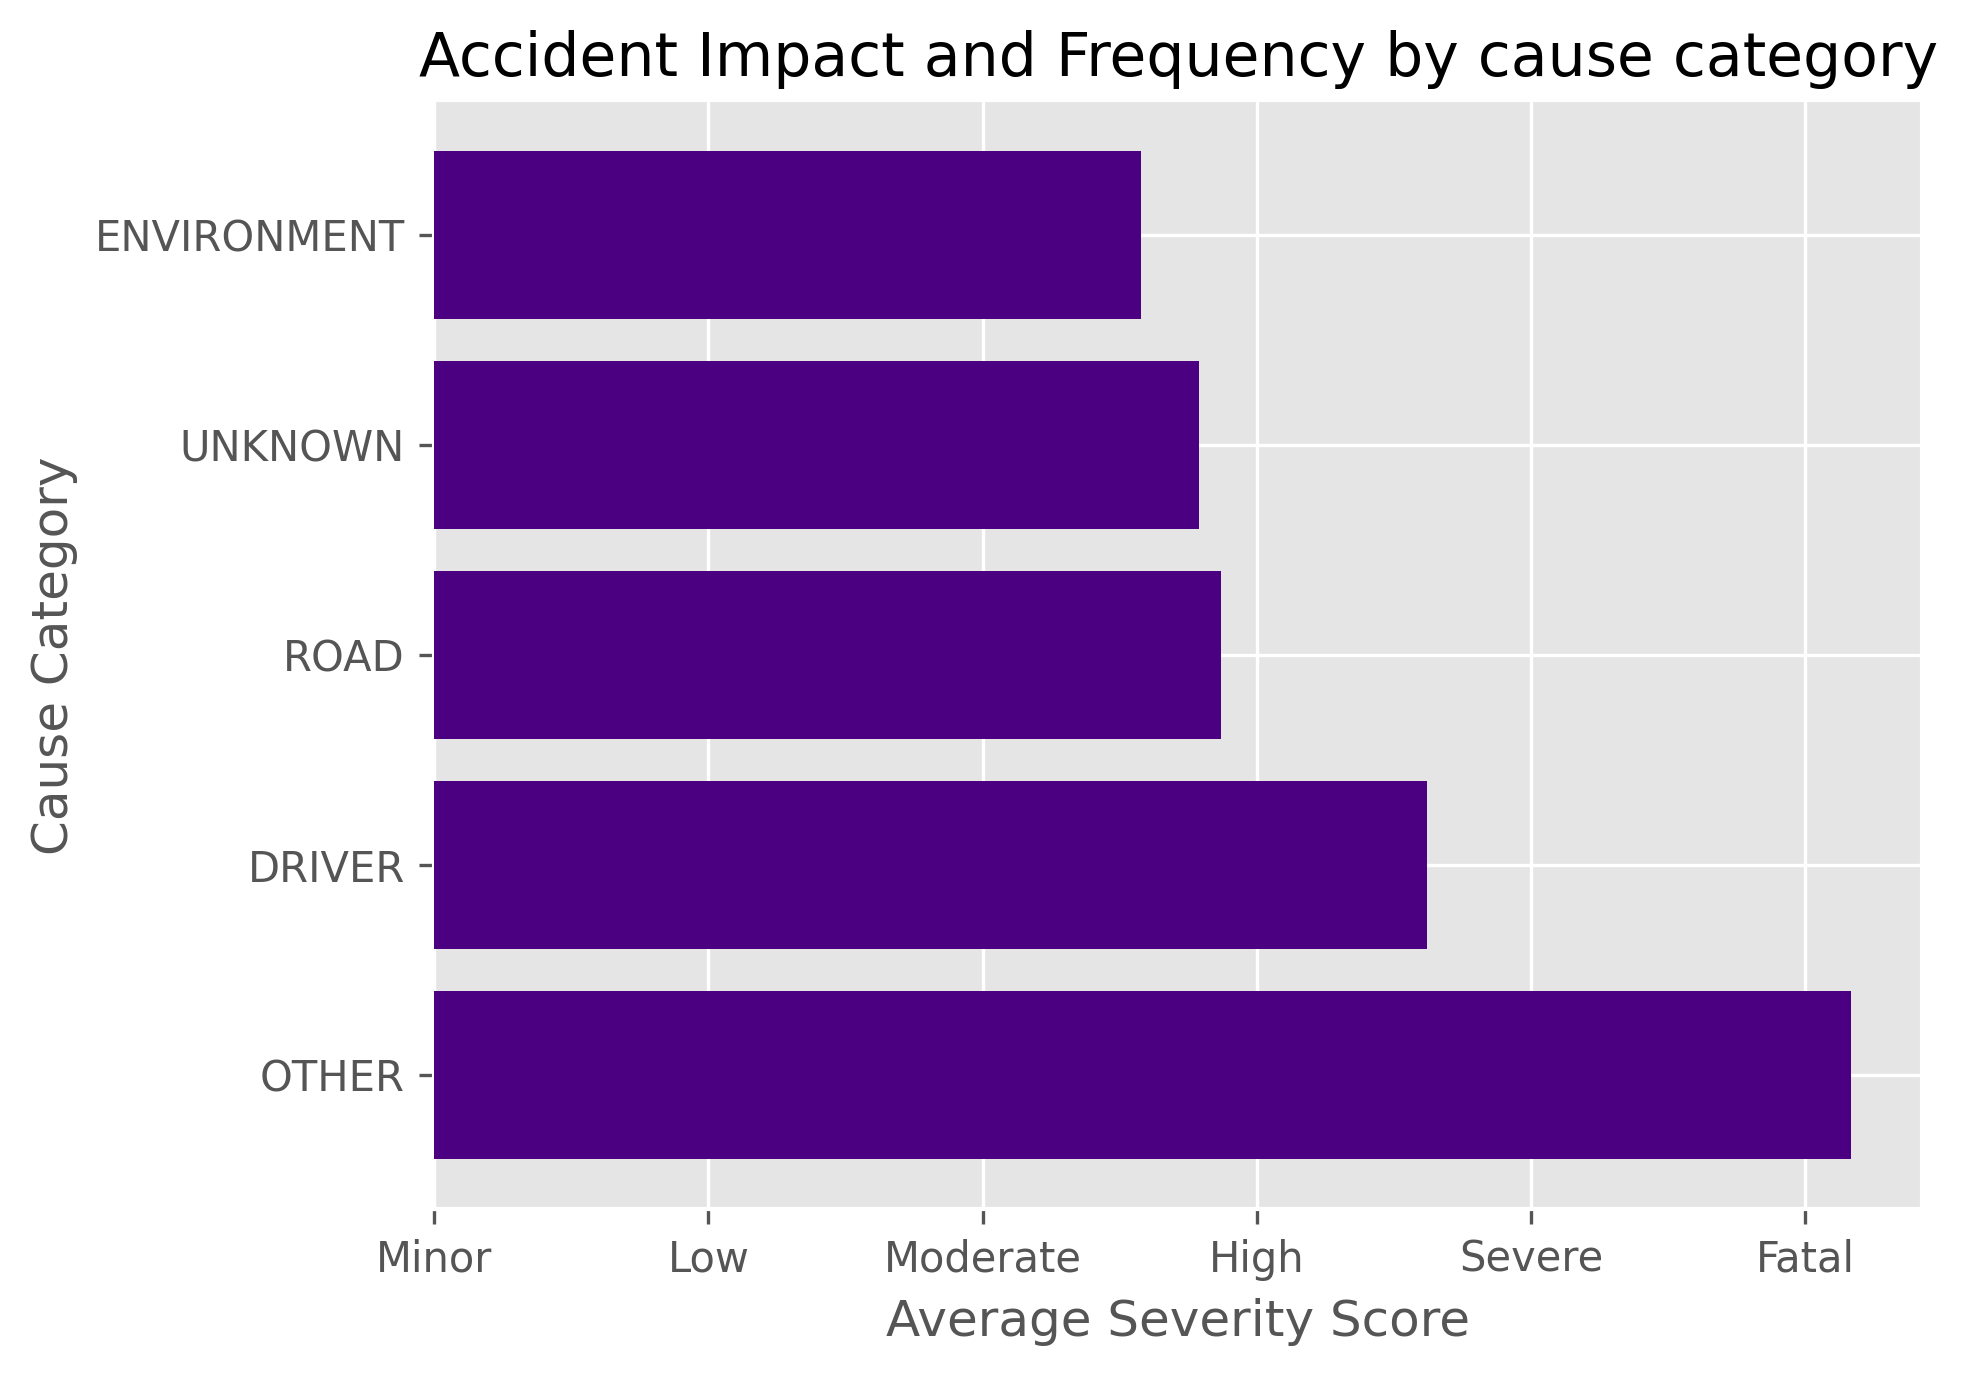
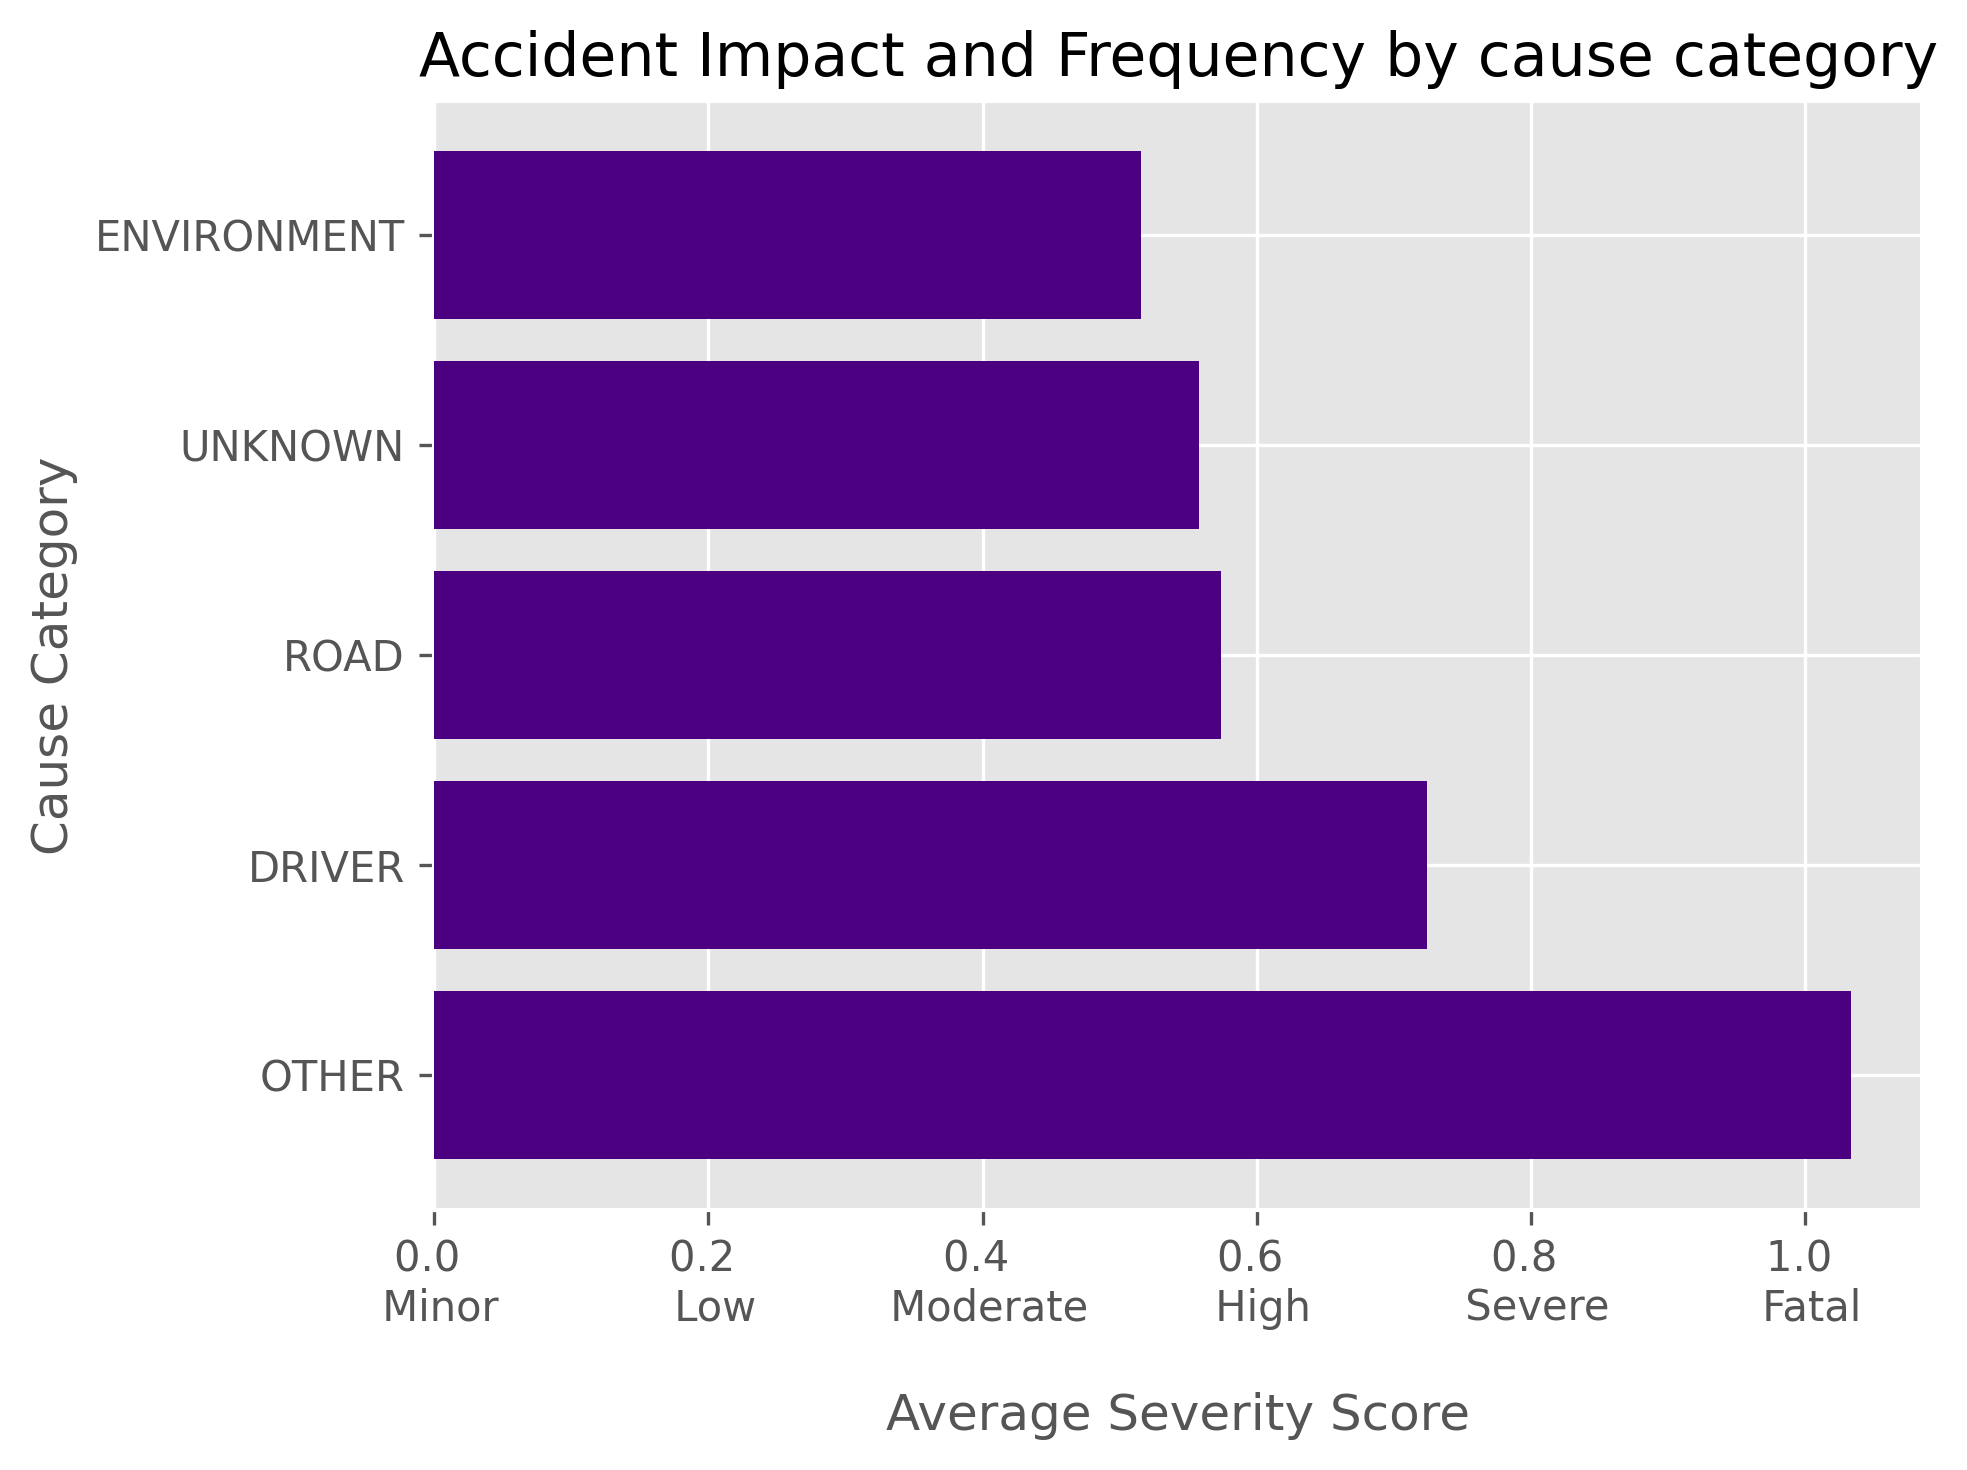
Completed Matplotlib visuals

diff --git a/scripts/visualization.py b/scripts/visualization.py
@@ -1,4 +1,5 @@
 #importing necessary libraries
+
 import matplotlib.pyplot as plt
 from sqlalchemy import create_engine
 import pandas as pd
@@ -47,15 +48,106 @@ def visualization_cause_severity():
     with plt.style.context('ggplot'):
         #going to use horizontal bar plot using 
         fig, ax = plt.subplots()
-
         ax.barh(cause_severity['cause_category'], cause_severity['avg_severity_score'], zorder=3, color='indigo')
         ax.set_xticks([0.0, 0.2, 0.4, 0.6, 0.8, 1.0])
-        ax.set_xticklabels(['Minor', 'Low', 'Moderate', 'High', 'Severe', 'Fatal'])
-        ax.set(xlabel='Average Severity Score', ylabel='Cause Category', title='Accident Impact and Frequency by cause category')
+        ax.set_xticklabels(['0.0 \n Minor', '0.2 \n Low', '0.4 \n Moderate', '0.6 \n High', '0.8 \n Severe', '1.0 \n Fatal'])
+        ax.set(ylabel='Cause Category', title='Accident Impact and Frequency by cause category')
+        ax.set_xlabel('Average Severity Score', labelpad=15)
         plt.savefig('C:\\Users\\DELL\\Desktop\\Luap\\Data Engineering\\ThirdProject\\scripts\\views_py\\cause_severity.png', dpi=300, bbox_inches='tight')
 
-visualization_cause_severity()
+#visualization_cause_severity()
+ 
+def visualization_total_injury_by_day():
+    query = 'SELECT * FROM vw_total_injury_by_day;'
+    total_injury_by_day = pd.read_sql(query, engine)
+    order = ['Daytime', 'Afternoon', 'Evening', 'Unknown']
+    total_injury_by_day = (
+    total_injury_by_day
+    .set_index('time_of_day')
+    .reindex(order)
+    .reset_index()
+    .fillna(0))
+    fig, ax = plt.subplots()
+    ax.bar(total_injury_by_day['time_of_day'], total_injury_by_day['accident_with_injuries'], zorder=3 , color='deepskyblue')
+    ax2=ax.twinx()
+    ax2.plot(total_injury_by_day['time_of_day'], total_injury_by_day['severity_score_average'], marker='o', linestyle='-', color='red', zorder=2)
+    ax2.set_ylabel('Average Severity Score', color='red', labelpad=15)
+    ax.set_xticklabels(['Morning\n6AM-12PM', 'Afternoon\n12PM-6PM', 'Evening\n6PM-12AM', 'Unknown\n12AM-12AM'])
+    ax.set_ylabel('Total Accidents with Injuries', color='deepskyblue', labelpad=15)
+    ax.set(xlabel = 'Time of Day', title='Total Accidents with Injuries and Average Severity Score by Time of Day')
+    ax.grid(True, which='major', linestyle='--', linewidth=0.6)
+    plt.savefig('C:\\Users\\DELL\\Desktop\\Luap\\Data Engineering\\ThirdProject\\scripts\\views_py\\total_injury_by_day.png', dpi=300, bbox_inches='tight')
+
+
+#creating visualization for damage_level_distribution
+def visualization_damage_level_distribution():
+    query = 'SELECT * FROM vw_damage_level_distribution;'
+    damage_level_distribution = pd.read_sql(query, engine)
+    with plt.style.context('ggplot'):
+        order = ['Low', 'Medium', 'High']
+        damage_level_distribution = (
+            damage_level_distribution
+            .set_index('damage_level')
+            .reindex(order)
+            .reset_index()
+            .fillna(0)
+        )
+        fig, ax = plt.subplots()
+        ax.bar(damage_level_distribution['damage_level'], damage_level_distribution['total_accidents'], zorder=3, color ='green')
+        ax2=ax.twinx()
+        ax2.plot(damage_level_distribution['damage_level'], damage_level_distribution['avg_severity_score'], marker='o', linestyle='-', color='red', zorder=4)
+        ax.set_xticks(range(len(damage_level_distribution['damage_level'])))
+        ax.set_xticklabels(['Low \n (UNDER $500)', 'Medium \n ($500 - $1,500)', 'High \n (OVER $1,500)'])
+        ax.set_title('Distribution of Accidents by Damage Level')
+        ax.set_xlabel('Damage Level', labelpad=15)
+        ax.set_ylabel('Total Accidents', color='green', labelpad=15)
+        ax2.set_ylabel('Severity Score', color = 'red' , labelpad=15)
+        ax.grid(True, linestyle='--', linewidth=0.5, alpha=0.3)
+        ax.set_axisbelow(True)
+        ax2.patch.set_alpha(0)
+        plt.savefig('C:\\Users\\DELL\\Desktop\\Luap\\Data Engineering\\ThirdProject\\scripts\\views_py\\damage_level_distribution.png', dpi=300, bbox_inches='tight')
+
+#visualization_damage_level_distribution()
+
+
+
+def visualization_multi_single_unit():
+    with plt.style.context('ggplot'):
+        query = 'SELECT * FROM vw_multi_single_unit_comparison;'
+        multi_single_unit = pd.read_sql(query, engine)
+        labels = multi_single_unit['multi_unit_flag'].replace({True: 'Multi-Unit', False: 'Single-Unit'})
+        total_accidents = multi_single_unit['total_accidents']
+        injuries = multi_single_unit['injuries_total']
+        x = range(len(labels))
+        width = 0.35
+        fig, ax = plt.subplots(figsize=(8,5))
+        # Bar 1
+        bar1= ax.bar(
+        [i - width/2 for i in x],
+        total_accidents,
+        width=width,
+        label='Total Accidents',
+        color='steelblue')
+        # Bar 2
+        bar2= ax.bar(
+            [i + width/2 for i in x],
+            injuries,
+            width=width,
+            label='Injuries',
+            color='tomato')
+        ax.bar_label(bar1, padding=3)
+        ax.bar_label(bar2, padding=3)
+        ax.set_xticks(list(x))
+        ax.set_xticklabels(labels)
+        ax.set_title('Multi (True) and Single (False) unit comparison')
+        ax.set_ylabel('Count of total accidents and injuries')
+        ax.set_xlabel('Multi-Unit (True) vs Single-Unit (False)', labelpad=15)
+        ax.legend()
+        ax.set_axisbelow(True)
+        ax.grid(True, linestyle='--', alpha=0.4)
+        plt.savefig('C:\\Users\\DELL\\Desktop\\Luap\\Data Engineering\\ThirdProject\\scripts\\views_py\\multi_single_unit_comparison.png', dpi=300, bbox_inches='tight')
+        
+
+visualization_multi_single_unit()
 print('successful call')
-
-
 